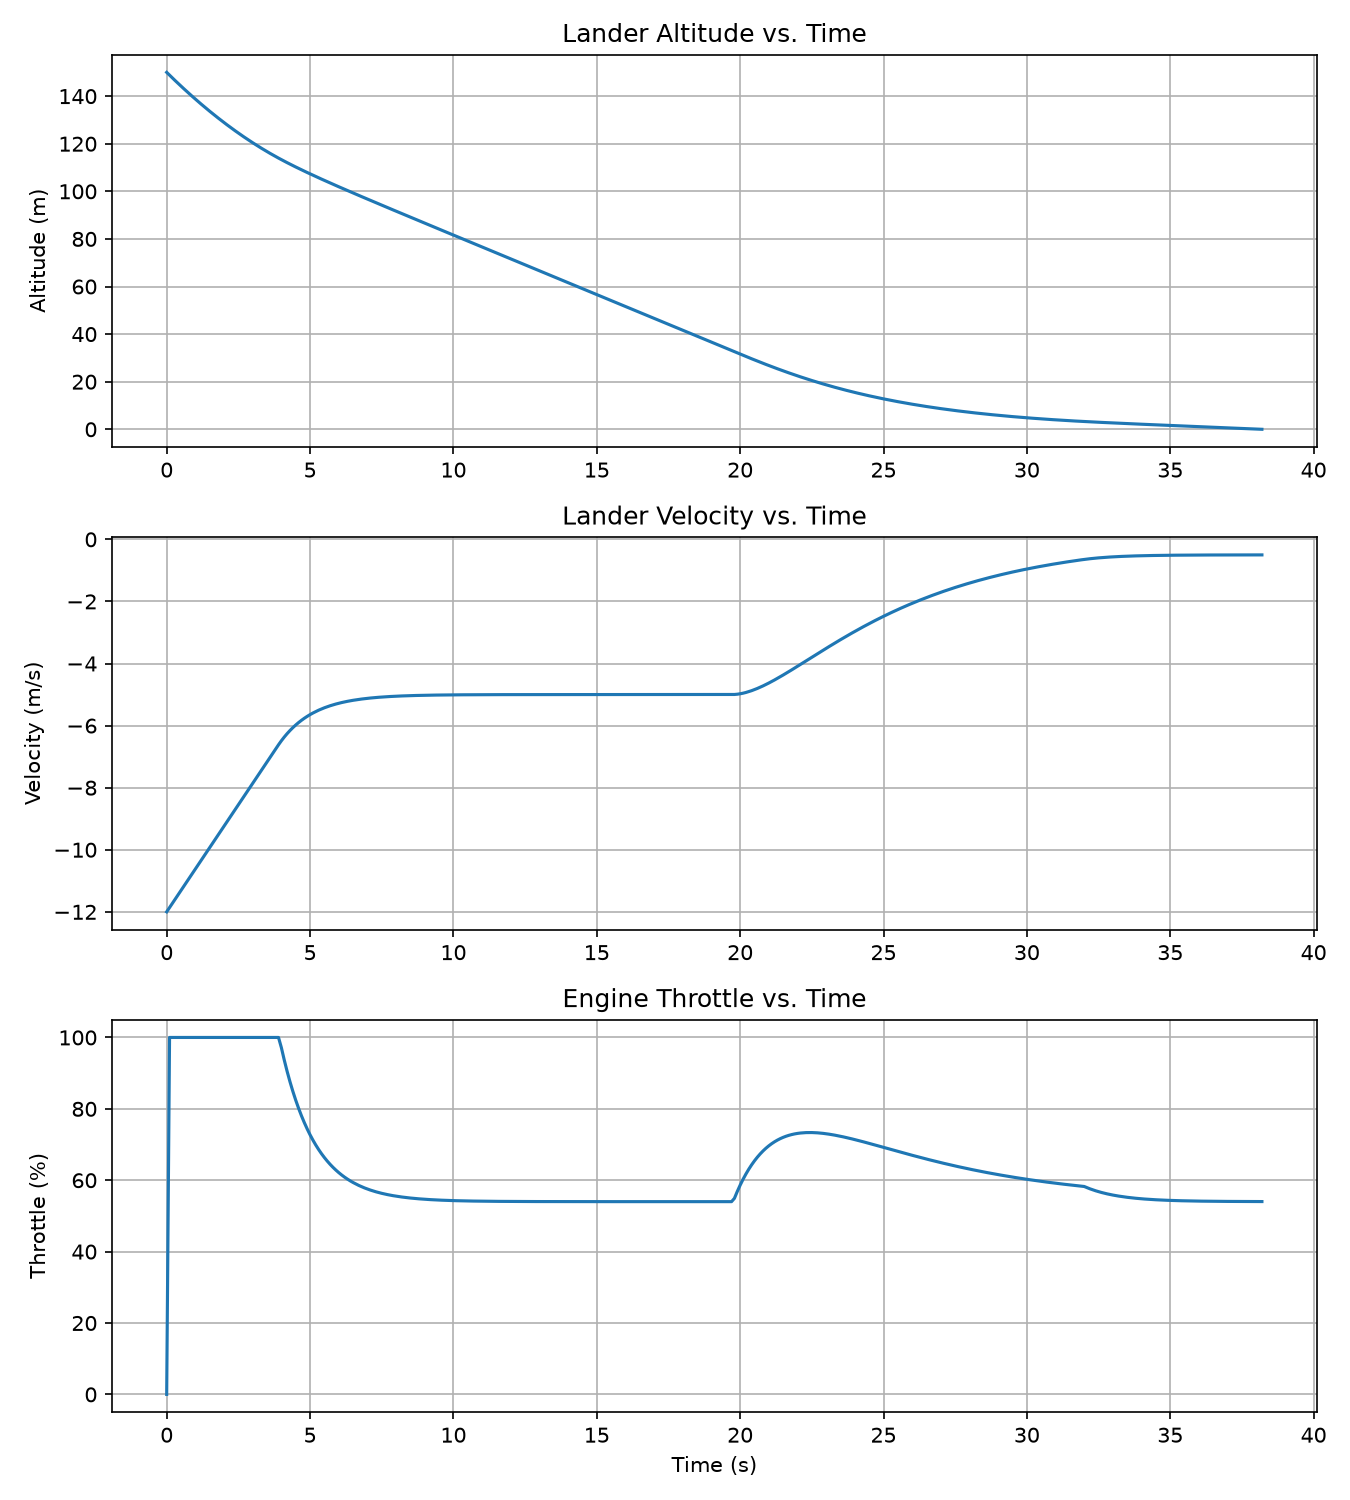
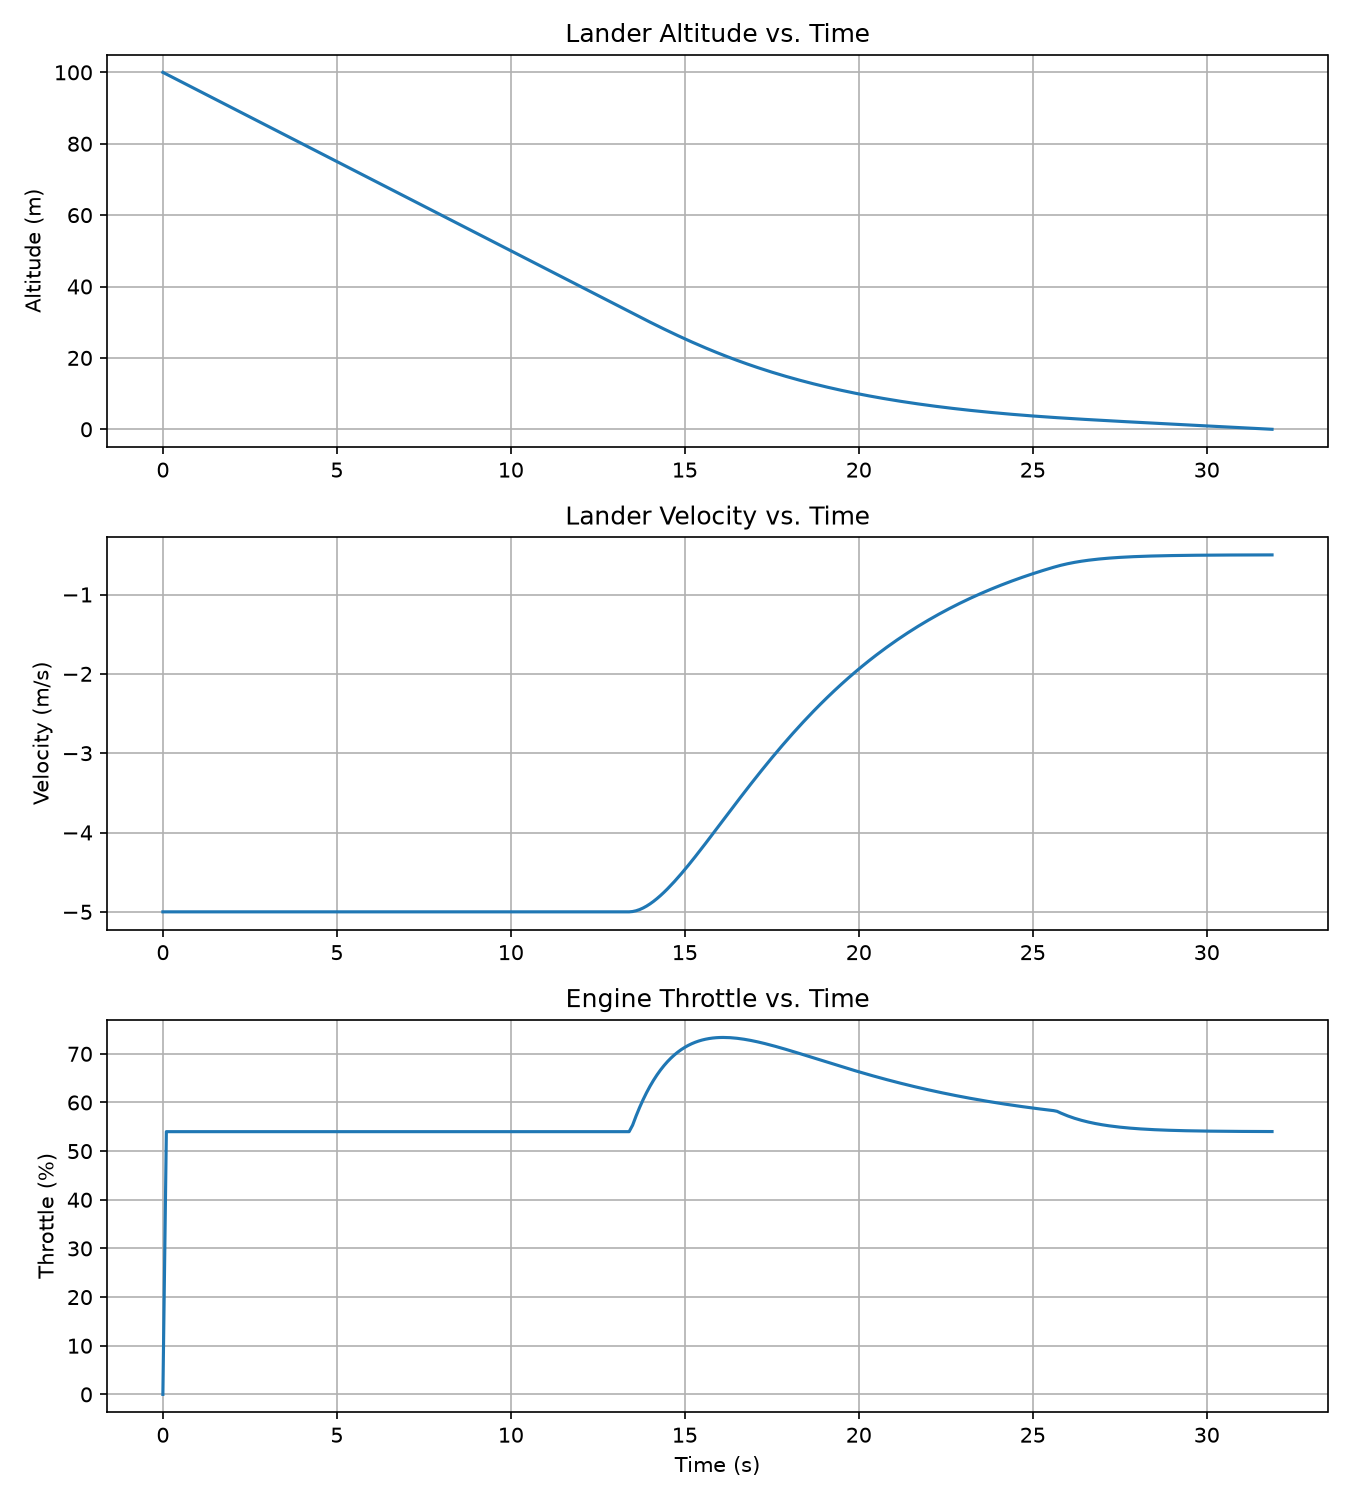
Update project documentation and landing analysis

diff --git a/autopilot.py b/autopilot.py
@@ -8,8 +8,8 @@ max_thrust = 3000.0
 dt = 0.1
 
 # Initial conditions
-altitude = 150.0
-velocity = -12.0
+altitude = 100.0
+velocity = -5.0
 time = 0.0
 
 # Store data for graphs

diff --git a/README.md b/README.md
@@ -1,34 +1,140 @@
 # Lunar Lander Simulation
+### An Autonomous Spacecraft Landing System Built with Python
 
-## Overview
-This project simulates a spacecraft landing on the Moon using Python. It models lunar gravity, spacecraft thrust, altitude, and velocity. An autonomous feedback controller adjusts engine throttle to achieve a controlled landing.
+A physics-based lunar lander simulation that models spacecraft descent under lunar gravity and tests an autonomous controller designed to achieve safe landings. This project combines physics, feedback control, experimental testing, and real-time visualization to explore the engineering challenges of landing a spacecraft on the Moon.
 
-## Physics Model
-The simulation uses lunar gravity of 1.62 m/s² and a spacecraft mass of 1,000 kg. The engine produces a maximum thrust of 3,000 N.
+## Project Demo
 
-Net acceleration is calculated using:
+[**Watch the Lunar Lander Simulation Demo**](https://drive.google.com/file/d/13Pb-Veq__2Dti88rI7XadPvTPSBrozQ_/view?usp=drive_link)
 
-**Acceleration = (Thrust / Mass) − Lunar Gravity**
+The demo showcases the autonomous spacecraft descent, real-time flight telemetry, and throttle-responsive thruster effects.
 
-The simulation updates velocity and altitude at 0.1-second intervals.
 
-## Autonomous Control
-The autopilot calculates a target descent velocity based on the current altitude. It then adjusts engine throttle according to the difference between the target velocity and the actual velocity.
+## Project Features
 
-## Initial Test Results
+- **Lunar Physics Model:** Simulates vertical motion under lunar gravity of 1.62 m/s².
+- **Autonomous Landing Controller:** Adjusts engine thrust based on altitude and vertical velocity.
+- **Real-Time Visualization:** Displays the spacecraft, lunar terrain, telemetry, and throttle-responsive engine flames.
+- **Experimental Testing:** Tests different initial altitudes and descent velocities to evaluate landing performance.
+- **Performance Analysis:** Tracks flight time, impact velocity, and whether each landing meets the safety criterion.
 
-| Initial Altitude | Initial Velocity | Flight Time | Impact Velocity | Result |
-|---|---|---|---|---|
+## How It Works
+
+### 1. Physics Model
+
+The simulation calculates the spacecraft's vertical acceleration using the relationship between engine thrust, spacecraft mass, and lunar gravity.
+
+\[
+a=\frac{T}{m}-g
+\]
+
+Where:
+
+- \(a\) = vertical acceleration (m/s²)
+- \(T\) = engine thrust (N)
+- \(m\) = spacecraft mass (kg)
+- \(g\) = lunar gravitational acceleration (1.62 m/s²)
+
+The model uses a spacecraft mass of 1,000 kg and a maximum engine thrust of 3,000 N. Velocity and altitude are updated throughout the descent.
+
+### 2. Autonomous Landing Controller
+
+The controller uses feedback from the spacecraft's current velocity and altitude to determine the thrust required for a controlled descent. It calculates a target descent velocity, estimates the necessary thrust, and adjusts throttle within the engine's limits.
+
+The goal is to reduce descent speed before touchdown. However, the controller cannot guarantee a safe landing under every initial condition because the engine has a finite thrust capacity.
+
+### 3. Landing Evaluation
+
+For this project, a landing is classified as safe when the absolute vertical impact velocity is no greater than 3.0 m/s. Faster impacts are classified as crashes.
+
+## Experimental Results
+
+The following tests evaluate how different starting conditions affect landing performance.
+
+| Starting Altitude | Initial Velocity | Flight Time | Impact Velocity | Outcome |
+|---:|---:|---:|---:|---|
 | 100 m | −5 m/s | 31.9 s | −0.50 m/s | Safe |
 | 150 m | −8 m/s | 41.1 s | −0.50 m/s | Safe |
 | 150 m | −12 m/s | 38.2 s | −0.50 m/s | Safe |
+| 50 m | −12 m/s | 7.1 s | −2.07 m/s | Safe |
+| 50 m | −15 m/s | 4.1 s | −9.20 m/s | Crash |
+| 50 m | −20 m/s | 2.8 s | −16.14 m/s | Crash |
 
-A landing is classified as safe when the absolute impact velocity is no greater than 3 m/s.
+*Negative velocity indicates downward motion.*
 
-## Tools
-- Python
-- Matplotlib
-- Git and GitHub
+### What the Experiments Show
+
+The tests demonstrate that the controller can achieve safe landings under several initial conditions. However, the low-altitude, high-speed tests show that limited engine thrust can prevent the spacecraft from slowing down sufficiently before impact.
+
+These results highlight an important engineering trade-off: a control system must account for both the spacecraft's current motion and the amount of time and thrust available to correct it.
+
+## Technology Stack
+
+- **Python:** Physics calculations and control logic
+- **Pygame:** Real-time visual simulation and interface
+- **Matplotlib:** Flight-performance graphs and analysis
+
+## Getting Started
+
+### Requirements
+
+Install Python 3.13 and the required libraries.
+
+```bash
+py -3.13 -m pip install pygame matplotlib
+```
+
+### Run the Project
+
+Clone the repository:
+
+```bash
+git clone https://github.com/ParthaYerra/lunar-lander-simulation.git
+cd lunar-lander-simulation
+```
+
+Run the basic physics model:
+
+```bash
+py -3.13 main.py
+```
+
+Run the autonomous landing controller and generate performance graphs:
+
+```bash
+py -3.13 autopilot.py
+```
+
+Launch the visual simulation:
+
+```bash
+py -3.13 visual_lander.py
+```
+
+Press **R** to restart the visual simulation or **Esc** to exit.
+
+## Project Structure
+
+```text
+lunar-lander-simulation/
+├── main.py               # Basic physics calculations
+├── autopilot.py          # Autonomous landing controller
+├── visual_lander.py      # Interactive visual simulation
+├── landing_analysis.png  # Flight-performance graphs
+└── README.md             # Project documentation
+```
 
 ## Limitations and Future Improvements
-This is a simplified physics model. It assumes constant spacecraft mass and does not model fuel consumption or variable engine performance. Future improvements could include fuel constraints, randomized starting conditions, and more advanced control algorithms.
+
+The current model focuses on vertical motion and does not simulate the full complexity of a real lunar landing. It excludes horizontal movement, changing spacecraft mass, terrain collision geometry, and other environmental effects.
+
+Potential improvements include refining the feedback controller, testing a wider range of initial conditions, expanding the physics model, and improving the realism of the spacecraft visualization.
+
+## Learning Outcomes
+
+This project provided practical experience with physics modeling, feedback control, Python programming, data visualization, and experimental evaluation. Testing both successful and unsuccessful landings helped identify the limitations of the controller and showed how simulation can be used to evaluate engineering decisions.
+
+---
+
+**Author:** Partha Yerra  
+**Repository:** [lunar-lander-simulation](https://github.com/ParthaYerra/lunar-lander-simulation)
